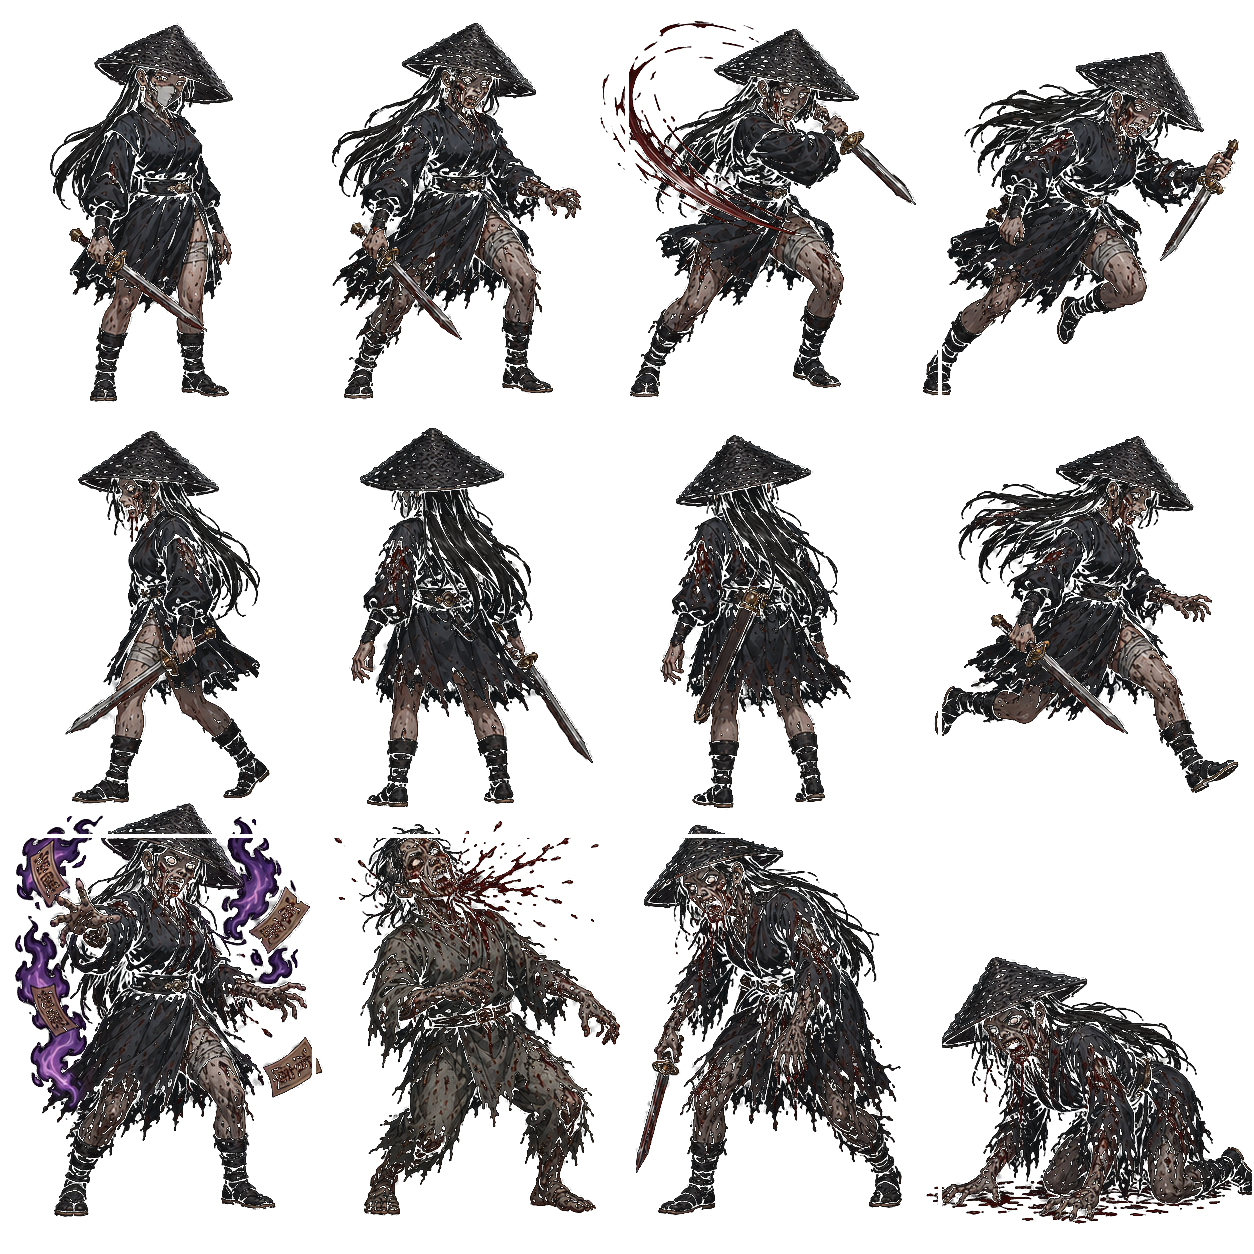
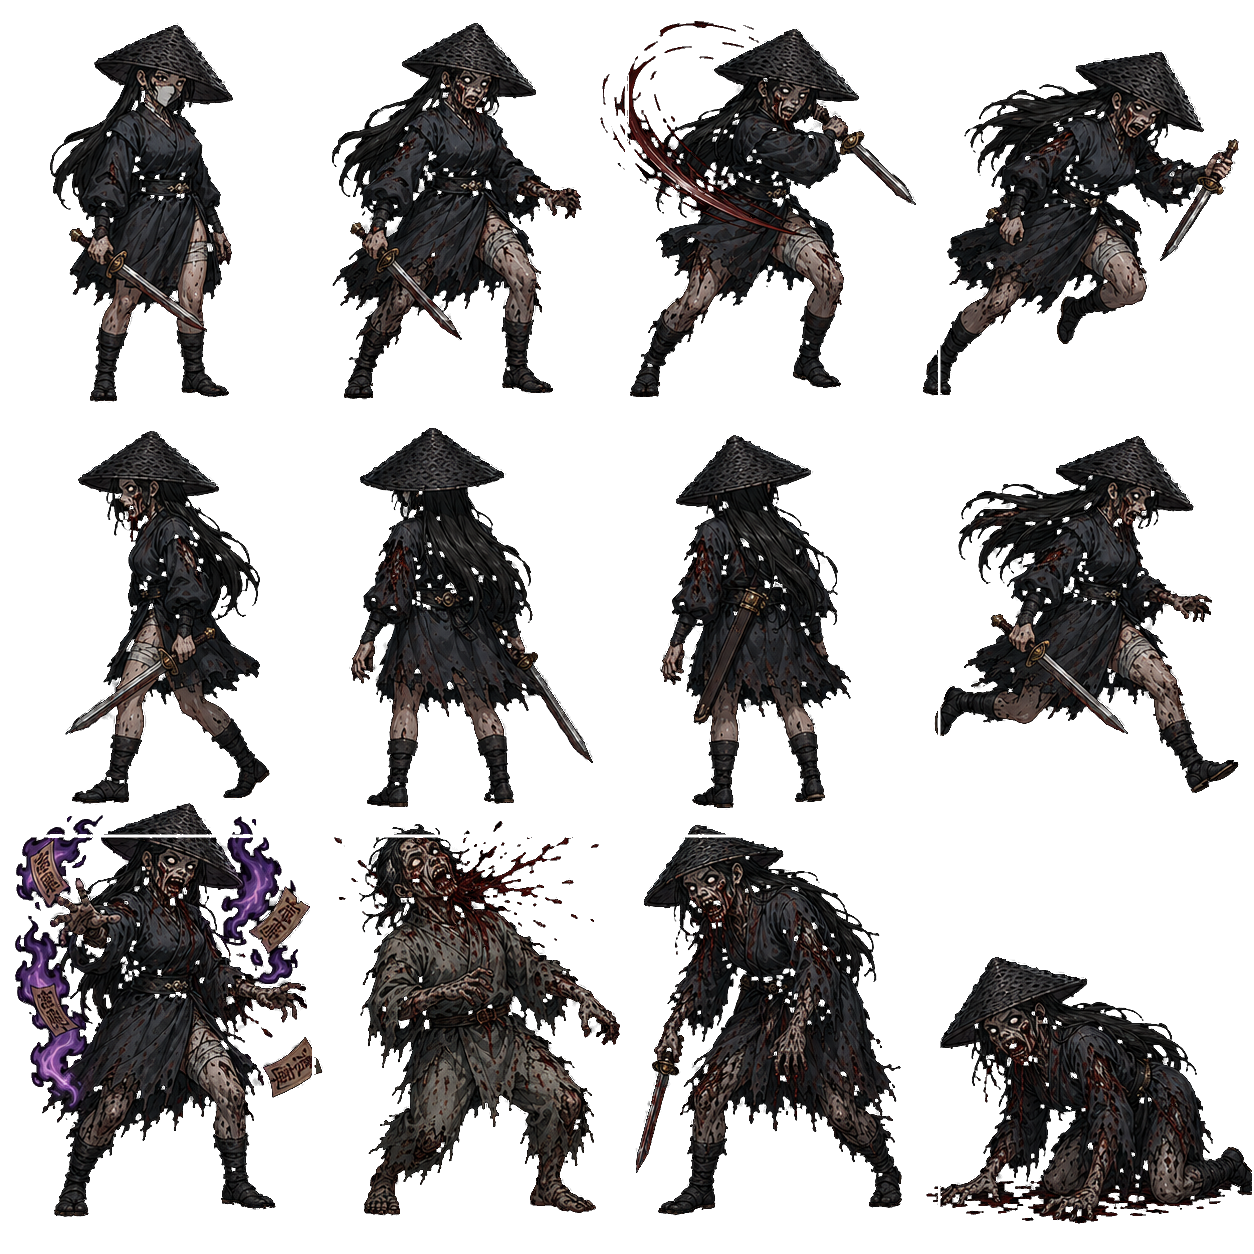
fix(assets): 스프라이트 알파 채널 복구 — 좀비 뚫림 현상 및 궁수 흰 후광 제거 (v1.1.1)
원본 아트웍(RGB)은 온전하고 알파 채널과 경계 색만 손상돼 있어서,
RGB 픽셀은 새로 그리지 않고 알파/경계만 보정했습니다.

■ 결함 1. 어두운 영역이 투명해짐 (좀비 4종 · 여도사 · 검객)
배경 제거 도구가 '어두운 픽셀 = 배경'으로 판정해 검은 도포·머리카락·갓의
알파를 깎아냈습니다. 어두운 스테이지 배경 위에서 캐릭터에 구멍이 뚫린 것처럼
보이던 원인입니다.
근거: 약알파 영역의 RGB 평균이 10~13으로 배경(≈0)과 뚜렷이 구분되는 실제
그림 정보가 남아 있습니다. 즉 그림은 있고 알파만 없습니다.

  외곽선을 제외한 몸통 내부의 반투명 비율
    근접좀비   18.5% → 3.1%      돌진좀비   22.9% → 7.4%
    원거리좀비 13.5% → 2.0%      탱커좀비   14.3% → 3.7%
    여도사     14.8% → 4.1%      검객       26.6% → 17.5%

검객이 상대적으로 높게 남는 것은 참격 호(청색 VFX)를 의도적으로 보존했기
때문입니다.

■ 결함 2. 가장자리에 배경색이 섞임 (궁수)
밝은 배경에서 잘라내며 경계 픽셀에 배경색이 남아, 머리카락 가닥 사이 밝은
회색이 어두운 배경 위에서 흰 후광처럼 번져 보였습니다. 경계 3px 이내에서
내부 참조색보다 뚜렷이 밝은 픽셀만 참조색으로 교체했습니다.

■ 보존 장치 (작업 중 발견한 회귀를 막기 위해 추가)
- fill_holes 미사용: 활과 시위 사이처럼 실제로 비어 있어야 하는 닫힌 영역까지
  검게 채워버림.
- 휘도(DARK_T) 조건: 밝은 VFX를 불투명화하면 각진 덩어리가 됨.
- 채도(SAT_T) 조건: 참격 호가 몸에 겹친 부분이 불투명해지며 탁한 녹색 얼룩이
  생기던 문제. 좀비 복구 대상은 채도 중앙값 2~7인 반면 검객은 18.9%가 채도 30
  초과로, 이 조건으로 분리됩니다.
- 흰 소매처럼 원래 밝은 부위는 참조색도 밝아 defringe 대상에서 자동 제외됩니다.

■ 기타
- tools/fix_sprites.py: 재현 가능한 보정 스크립트. --check로 진단만 가능.
- 이미지 에셋은 두 빌드가 공유하므로 index_mobile_v1.html에도 함께 반영됩니다
  (해당 빌드는 UI만 구버전).

Claude-Session: https://claude.ai/code/session_01SArfacn69XkAR74GN7KNkr

diff --git a/versions.html b/versions.html
@@ -45,12 +45,13 @@ a.build.current{border-left-color:var(--gold);border-color:rgba(190,120,30,.7);}
   <ul>
     <li>
       <a class="build current" href="index_mobile.html">
-        <div class="row"><span class="ver">v1.1.0</span><span class="tag now">최신</span></div>
+        <div class="row"><span class="ver">v1.1.1</span><span class="tag now">최신</span></div>
         <div class="note">
-          모바일 UI 전면 개선.<br>
-          <b>HUD 스탯 잘림 수정</b> · 폰트 상향 · 세이프에어리어 대응 ·
-          일시정지/레벨업/캐릭터 선택 화면 개편 ·
-          <b>게임오버 랭킹 오조작 재시작 수정</b>
+          <b>스프라이트 알파 복구</b> — 좀비·캐릭터가 뚫려 보이던 문제 해결,
+          궁수 가장자리 흰 후광 제거.<br>
+          (v1.1.0) 모바일 UI 전면 개선 — HUD 스탯 잘림 수정 · 폰트 상향 ·
+          세이프에어리어 대응 · 일시정지/레벨업/캐릭터 선택 개편 ·
+          게임오버 랭킹 오조작 재시작 수정
         </div>
       </a>
     </li>
@@ -58,7 +59,9 @@ a.build.current{border-left-color:var(--gold);border-color:rgba(190,120,30,.7);}
       <a class="build" href="index_mobile_v1.html">
         <div class="row"><span class="ver">v1.0.0</span><span class="tag old">이전 버전</span></div>
         <div class="note">
-          UI 개선 직전 빌드. 비교·롤백 확인용으로 보존합니다.
+          UI 개선 직전 빌드. 비교·롤백 확인용으로 보존합니다.<br>
+          <b>이미지 에셋은 최신 빌드와 공유</b>하므로, 스프라이트 수정은
+          이 빌드에도 함께 반영됩니다(UI만 구버전).
         </div>
       </a>
     </li>

diff --git a/index_mobile.html b/index_mobile.html
@@ -1019,7 +1019,7 @@ const UPGRADE_POOL = UPGRADE_COMMON;
 // ════════════════════════════════════════════════════════════════════
 // 이전 빌드는 index_mobile_v1.html로 보존되어 있으며 versions.html에서 목록 확인.
 // 버그리포트에 어느 빌드인지 남길 수 있도록 타이틀 화면 좌하단에 표시한다.
-const APP_VERSION = '1.1.0';
+const APP_VERSION = '1.1.1';
 (function(){
   const el = document.getElementById('ver-badge');
   if(el) el.textContent = 'v' + APP_VERSION;

diff --git a/tools/fix_sprites.py b/tools/fix_sprites.py
@@ -1,0 +1,163 @@
+#!/usr/bin/env python3
+"""
+스프라이트 시트 알파/가장자리 복구 도구.
+
+원본 아트웍(RGB)은 손상되지 않았고 알파 채널과 경계 색만 잘못되어 있어서,
+RGB 픽셀은 일절 새로 그리지 않고 아래 두 가지만 보정한다.
+
+────────────────────────────────────────────────────────────────────
+결함 1. 어두운 영역이 투명해짐  (좀비 전반, 여도사, 검객)
+────────────────────────────────────────────────────────────────────
+배경 제거 도구가 '어두운 픽셀 = 배경'으로 판정해, 검은 도포·머리카락·갓의
+알파를 깎아냈다. 게임의 어두운 배경 위에서 캐릭터에 구멍이 뚫린 것처럼 보인다.
+(근거: 약알파 영역의 RGB 평균이 10~13으로, 배경(≈0)과 뚜렷이 구분되는
+ 실제 그림 정보가 남아 있다. 즉 그림은 있는데 알파만 없다.)
+
+  → core(확실한 전경)와 연결된, 검지 않은(=그려진) 영역을 실루엣으로 복원하고
+    그 안의 '어두운' 픽셀만 불투명하게 되돌린다.
+
+  DARK_T(휘도)와 SAT_T(채도) 두 조건이 핵심이다. 검객의 참격 호(청색),
+  여도사의 부적 화염(보라) 같은 VFX는 원래 반투명해야 하는 요소라,
+  함께 불투명화하면 각진 덩어리나 탁한 얼룩이 되어 오히려 품질이 나빠진다.
+  손상은 '어둡고 무채색인' 옷·머리카락에서만 일어났으므로 거기만 고친다.
+  (측정: 좀비의 복구 대상 픽셀은 채도 중앙값 2~7, 검객은 VFX가 겹쳐 18.9%가 채도 30 초과)
+
+  구멍 메우기(fill_holes)는 쓰지 않는다. 활과 시위 사이처럼 실제로 비어 있어야
+  하는 닫힌 영역까지 검게 채워버리기 때문.
+
+────────────────────────────────────────────────────────────────────
+결함 2. 가장자리에 배경색이 섞임  (궁수)
+────────────────────────────────────────────────────────────────────
+밝은 배경에서 잘라내며 실루엣 경계 픽셀에 배경색이 남았다. 알파 마스크 자체는
+매끈하지만 머리카락 가닥 사이에 밝은 회색이 불투명하게 포함돼, 어두운 게임
+배경 위에서 흰 후광처럼 번져 보인다.
+
+  → 경계 BAND px 이내에서, 오염되지 않은 내부의 최근접 색보다 LUMA_GAP 이상
+    밝은 픽셀만 그 참조색으로 교체한다.
+
+  '참조색보다 밝을 때만'이 안전장치다. 흰 소매처럼 원래 밝은 부위는 참조색도
+  밝아 휘도 차가 작으므로 교체되지 않는다.
+
+사용법:  python3 tools/fix_sprites.py [--check] [파일...]
+        --check 를 주면 수정하지 않고 진단 결과만 출력한다.
+"""
+import sys
+import numpy as np
+from PIL import Image
+from scipy import ndimage
+
+# 스프라이트 시트 격자 (index_mobile.html의 drawSpriteSheet 호출과 일치해야 함)
+COLS, ROWS = 4, 3
+
+CORE_A   = 200   # 확실한 전경으로 볼 알파
+LUMA_T   = 6     # 이 휘도 이하는 '그려지지 않은 검은 배경'
+DARK_T   = 90    # 이 휘도 미만만 알파 복구 대상
+SAT_T    = 30    # 이 채도 이상은 복구 제외(VFX가 몸에 겹쳐 물든 픽셀)
+EDGE_PX  = 1     # 외곽 안티앨리어싱 보존 폭
+BAND     = 3     # 가장자리 오염 후보 폭(px)
+LUMA_GAP = 38    # 참조색보다 이만큼 밝으면 오염으로 판정
+SOLID_A  = 250
+
+TARGETS = [
+    'assets/PC_여도사.png', 'assets/PC_검객.png', 'assets/PC_여궁수_2.png',
+    'assets/NPC_근접좀비.png', 'assets/NPC_돌진좀비.png',
+    'assets/NPC_원거리좀비.png', 'assets/NPC_탱커좀비.png',
+]
+
+
+def repair_alpha(rgb, al):
+    """결함 1: 잘못 깎인 어두운 영역의 알파를 되돌린다."""
+    luma = rgb.max(axis=2)
+    core = al >= CORE_A
+    if not core.any():
+        return al
+    lab, n = ndimage.label((luma > LUMA_T) | core)
+    keep = np.zeros(n + 1, bool)
+    keep[np.unique(lab[core])] = True
+    keep[0] = False
+    body = ndimage.binary_closing(keep[lab], structure=np.ones((3, 3)))
+
+    # 어둡고(=키잉에 잘못 먹힌) 무채색인 픽셀만 복구 대상.
+    # 채도 조건이 없으면 참격 호가 몸에 겹친 부분까지 불투명해져 탁한 얼룩이 남는다.
+    sat = rgb.max(axis=2).astype(int) - rgb.min(axis=2).astype(int)
+    target = body & (luma < DARK_T) & (sat < SAT_T)
+    inner = ndimage.binary_erosion(body, structure=np.ones((2*EDGE_PX+1,)*2))
+    out = al.copy()
+    out[target & inner] = 255
+    ring = target & ~inner                 # 깎여나간 윤곽만 살짝 복원
+    out[ring] = np.maximum(al[ring], 128)
+    return out
+
+
+def defringe(rgb, al):
+    """결함 2: 경계에 남은 배경색을 인접 내부 색으로 교체한다."""
+    solid = al >= SOLID_A
+    if solid.sum() < 50:
+        return rgb
+    dist = ndimage.distance_transform_edt(solid)
+    band, clean = solid & (dist <= BAND), solid & (dist > BAND)
+    if clean.sum() < 50 or not band.any():
+        return rgb
+    _, idx = ndimage.distance_transform_edt(~clean, return_indices=True)
+    ref = rgb[idx[0], idx[1]]
+    contaminated = band & ((rgb.max(axis=2).astype(int) - ref.max(axis=2).astype(int)) >= LUMA_GAP)
+    out = rgb.copy()
+    out[contaminated] = ref[contaminated]
+    return out
+
+
+def interior_semi_ratio(al):
+    """진단용: 외곽선을 제외한 '몸통 내부'에서 반투명 픽셀이 차지하는 비율(%)."""
+    inner = ndimage.binary_erosion(
+        ndimage.binary_fill_holes(ndimage.binary_closing(al > 0, structure=np.ones((9, 9)))),
+        structure=np.ones((17, 17)))
+    return 0.0 if not inner.any() else float((al[inner] < 250).mean() * 100)
+
+
+def bright_fringe_px(rgb, al):
+    """진단용: 인접 내부보다 뚜렷하게 밝은 경계 픽셀 수(= 흰 후광)."""
+    solid, edge = al >= 250, (al > 20) & (al < 200)
+    if not solid.any() or not edge.any():
+        return 0
+    luma = rgb.max(axis=2).astype(float)
+    near = ndimage.grey_dilation(np.where(solid, luma, 0), size=(7, 7))
+    e = edge & (near > 0)
+    return int(((luma[e] - near[e]) > 40).sum())
+
+
+def process(path, check_only=False):
+    a = np.array(Image.open(path).convert('RGBA'))
+    H, W = a.shape[:2]
+    fw, fh = W // COLS, H // ROWS
+    before = (interior_semi_ratio(a[..., 3]), bright_fringe_px(a[..., :3], a[..., 3]))
+    if check_only:
+        return before, before
+
+    for r in range(ROWS):
+        for c in range(COLS):
+            ys, xs = slice(r*fh, (r+1)*fh), slice(c*fw, (c+1)*fw)
+            # 순서 주의: 실루엣을 먼저 바로잡아야 defringe의 '경계'가 올바르게 잡힌다.
+            a[ys, xs, 3] = repair_alpha(a[ys, xs, :3], a[ys, xs, 3])
+            a[ys, xs, :3] = defringe(a[ys, xs, :3], a[ys, xs, 3])
+
+    Image.fromarray(a).save(path, optimize=True)
+    after = (interior_semi_ratio(a[..., 3]), bright_fringe_px(a[..., :3], a[..., 3]))
+    return before, after
+
+
+def main():
+    args = [x for x in sys.argv[1:] if not x.startswith('--')]
+    check = '--check' in sys.argv
+    files = args or TARGETS
+    print(f"{'파일':24s} {'내부 반투명(%)':>20s} {'흰 후광(px)':>18s}")
+    for f in files:
+        b, a = process(f, check)
+        name = f.split('/')[-1]
+        if check:
+            print(f"{name:24s} {b[0]:12.2f}        {b[1]:12d}")
+        else:
+            print(f"{name:24s} {b[0]:7.2f} → {a[0]:<7.2f} {b[1]:8d} → {a[1]:<7d}")
+
+
+if __name__ == '__main__':
+    main()
